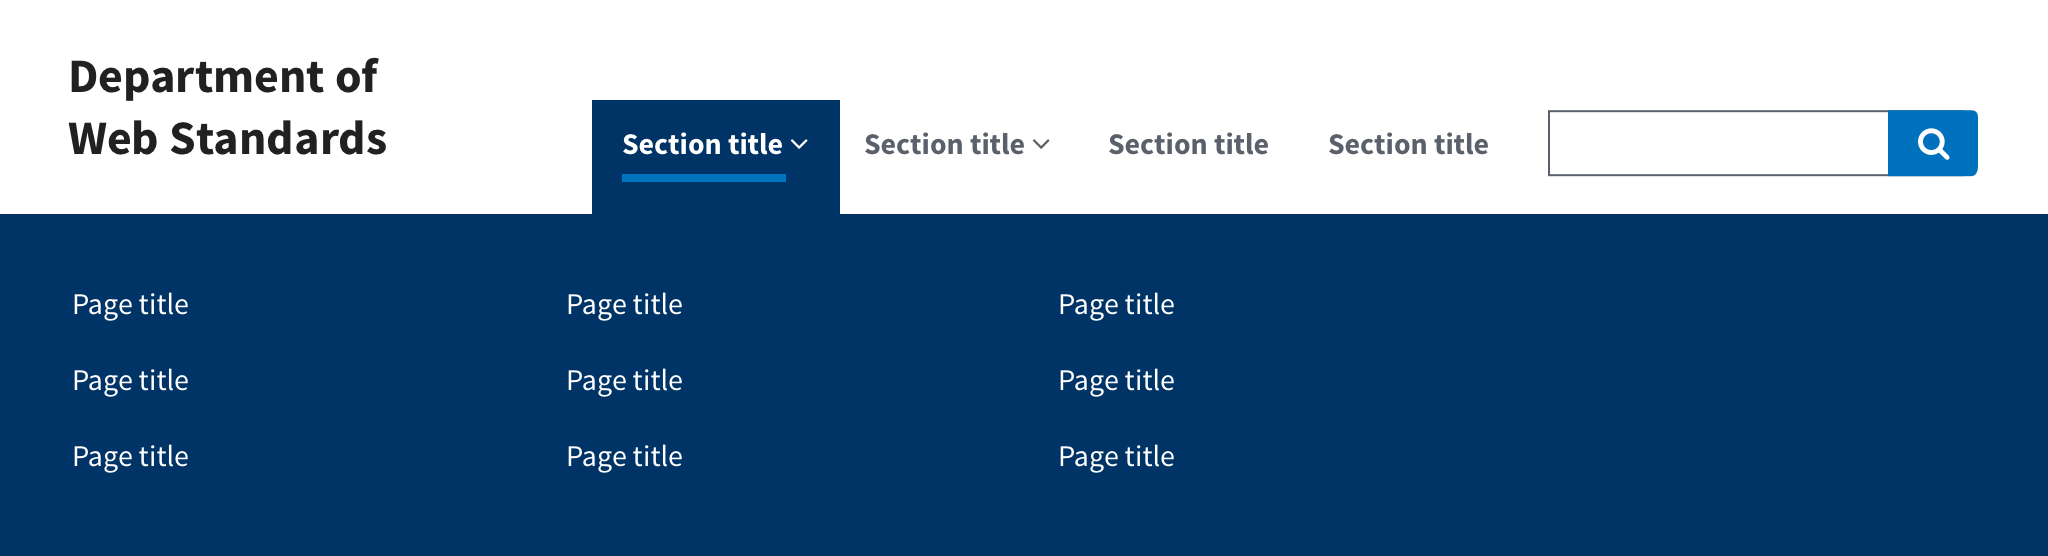
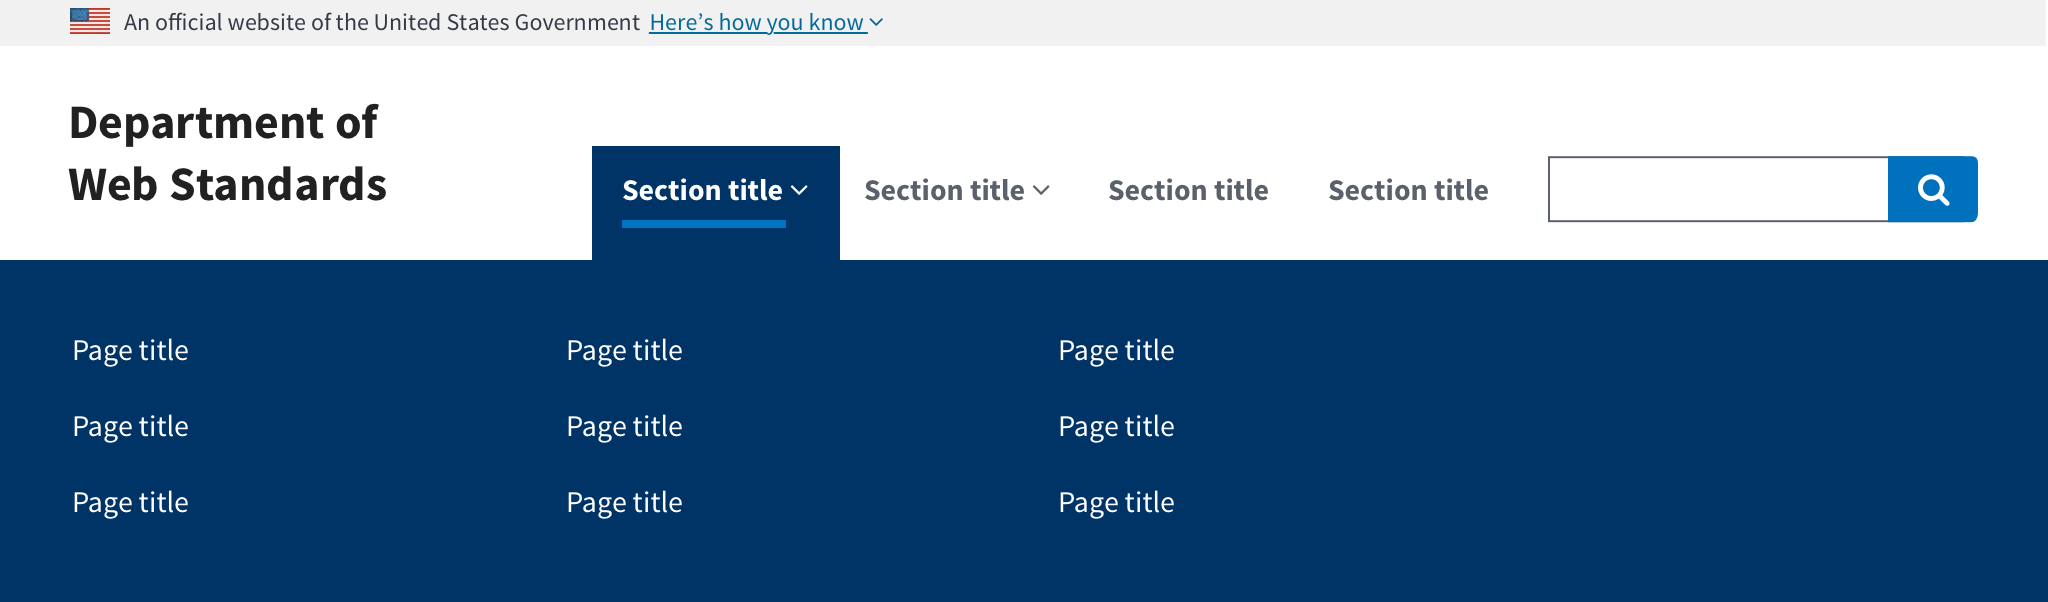
Update all files to match latest version of the staging branch on the main repo.

diff --git a/_includes/navbar.html b/_includes/navbar.html
@@ -1,15 +1,39 @@
 <a class="usa-skipnav" href="#main-content">Skip to main content</a>
 <header class="usa-header site-header" role="banner">
-  <div class="usa-disclaimer">
-    <div class="usa-disclaimer-official">
-      <img src="{{ site.baseurl }}/assets/img/favicons/favicon-40.png" alt="U.S. flag">
-      <p>An official website of the United States government</p>
+  <!-- Gov banner BEGIN -->
+  <div class="usa-banner">
+    <div class="usa-accordion">
+      <header class="usa-banner-header">
+        <div class="usa-grid usa-banner-inner">
+        <img src="{{ site.baseurl }}/assets/img/favicons/favicon-57.png" alt="U.S. flag">
+        <p>An official website of the United States government</p>
+        <button class="usa-accordion-button usa-banner-button"
+          aria-expanded="false" aria-controls="gov-banner">
+          <span class="usa-banner-button-text">Here's how you know</span>
+        </button>
+        </div>
+      </header>
+      <div class="usa-banner-content usa-grid usa-accordion-content" id="gov-banner">
+        <div class="usa-banner-guidance-gov usa-width-one-half">
+          <img class="usa-banner-icon usa-media_block-img" src="{{ site.baseurl }}/assets/img/icon-dot-gov.svg" alt="Dot gov">
+          <div class="usa-media_block-text">
+            <p>
+              <strong>The .gov means it’s official.</strong>
+              <br>
+              Federal government websites always use a .gov or .mil domain. Before sharing sensitive information online, make sure you’re on a .gov or .mil site by inspecting your browser’s address (or “location”) bar.
+            </p>
+          </div>
+        </div>
+        <div class="usa-banner-guidance-ssl usa-width-one-half">
+          <img class="usa-banner-icon usa-media_block-img" src="{{ site.baseurl }}/assets/img/icon-https.svg" alt="SSL">
+          <div class="usa-media_block-text">
+            <p>This site is also protected by an SSL (Secure Sockets Layer) certificate that’s been signed by the U.S. government. The <strong>https://</strong> means all transmitted data is encrypted  — in other words, any information or browsing history that you provide is transmitted securely.</p>
+          </div>
+        </div>
+      </div>
     </div>
-    <p class="usa-disclaimer-stage">
-      This site is currently in alpha.
-      <a href="https://18f.gsa.gov/dashboard/stages/#alpha">Learn more.</a>
-    </p>
   </div>
+  <!-- Gov banner END -->
   <div class="usa-navbar site-header-navbar">
     <button class="usa-menu-btn">Menu</button>
     <div class="usa-logo site-logo" id="logo">

diff --git a/_components/headers/headers.html b/_components/headers/headers.html
@@ -45,6 +45,11 @@ maturity: alpha
   <li><a href="https://www.usertesting.com/blog/2015/03/19/site-navigation-tree-testing/">https://www.usertesting.com/blog/2015/03/19/site-navigation-tree-testing/</a></li>
 </ul>
 
+<h3 class="usa-heading">The “official government site” banner</h3>
+<p>We recommend that all federal government sites include the “official government site” banner and a logo or site name. The banner helps people identify that your organization is part of the government, while the logo or site name helps visitors understand what your site is and what it does.</p>
+<h4>Building with HTTPS</h4>
+<p><a href="https://18f.gsa.gov/2014/11/13/why-we-use-https-in-every-gov-website-we-make/">HTTPS is a best practice</a> for all websites: It’s secure, private, and fast, and search engines prefer encrypted sites. But it’s especially important for government websites. The .gov in government websites carries a lot of weight. The public expects the contents of .gov websites to be official and accurate, and they expect any information they submit to that website to be private. The U.S. CIO provides guidance to implementing HTTPS for government websites at <a href="https://https.cio.gov/">https://https.cio.gov/</a></p>
+
 <h2 class="usa-heading" id="basic">Basic header</h2>
 <div class="preview">
   <a class="media_link" href="{{ site.baseurl }}/headers/basic/">

diff --git a/css/styleguide.scss b/css/styleguide.scss
@@ -26,7 +26,6 @@ $font-monospace:       Consolas, Monaco, 'Andale Mono', monospace;
     position: absolute;
   }
 
-  .usa-disclaimer-official,
   .site-logo {
     margin-left: $site-margins-mobile;
 
@@ -35,14 +34,13 @@ $font-monospace:       Consolas, Monaco, 'Andale Mono', monospace;
     }
   }
 
-  .usa-disclaimer-stage {
-    margin-right: $site-margins-mobile;
-
-    @include media($nav-width) {
-      margin-right: $site-margins;
-    }
+  .usa-banner-inner {
+    max-width: 100%;
   }
 
+  .usa-banner-content {
+    margin-left: 0;
+  }
 
   .usa-button-list {
     float: right;
